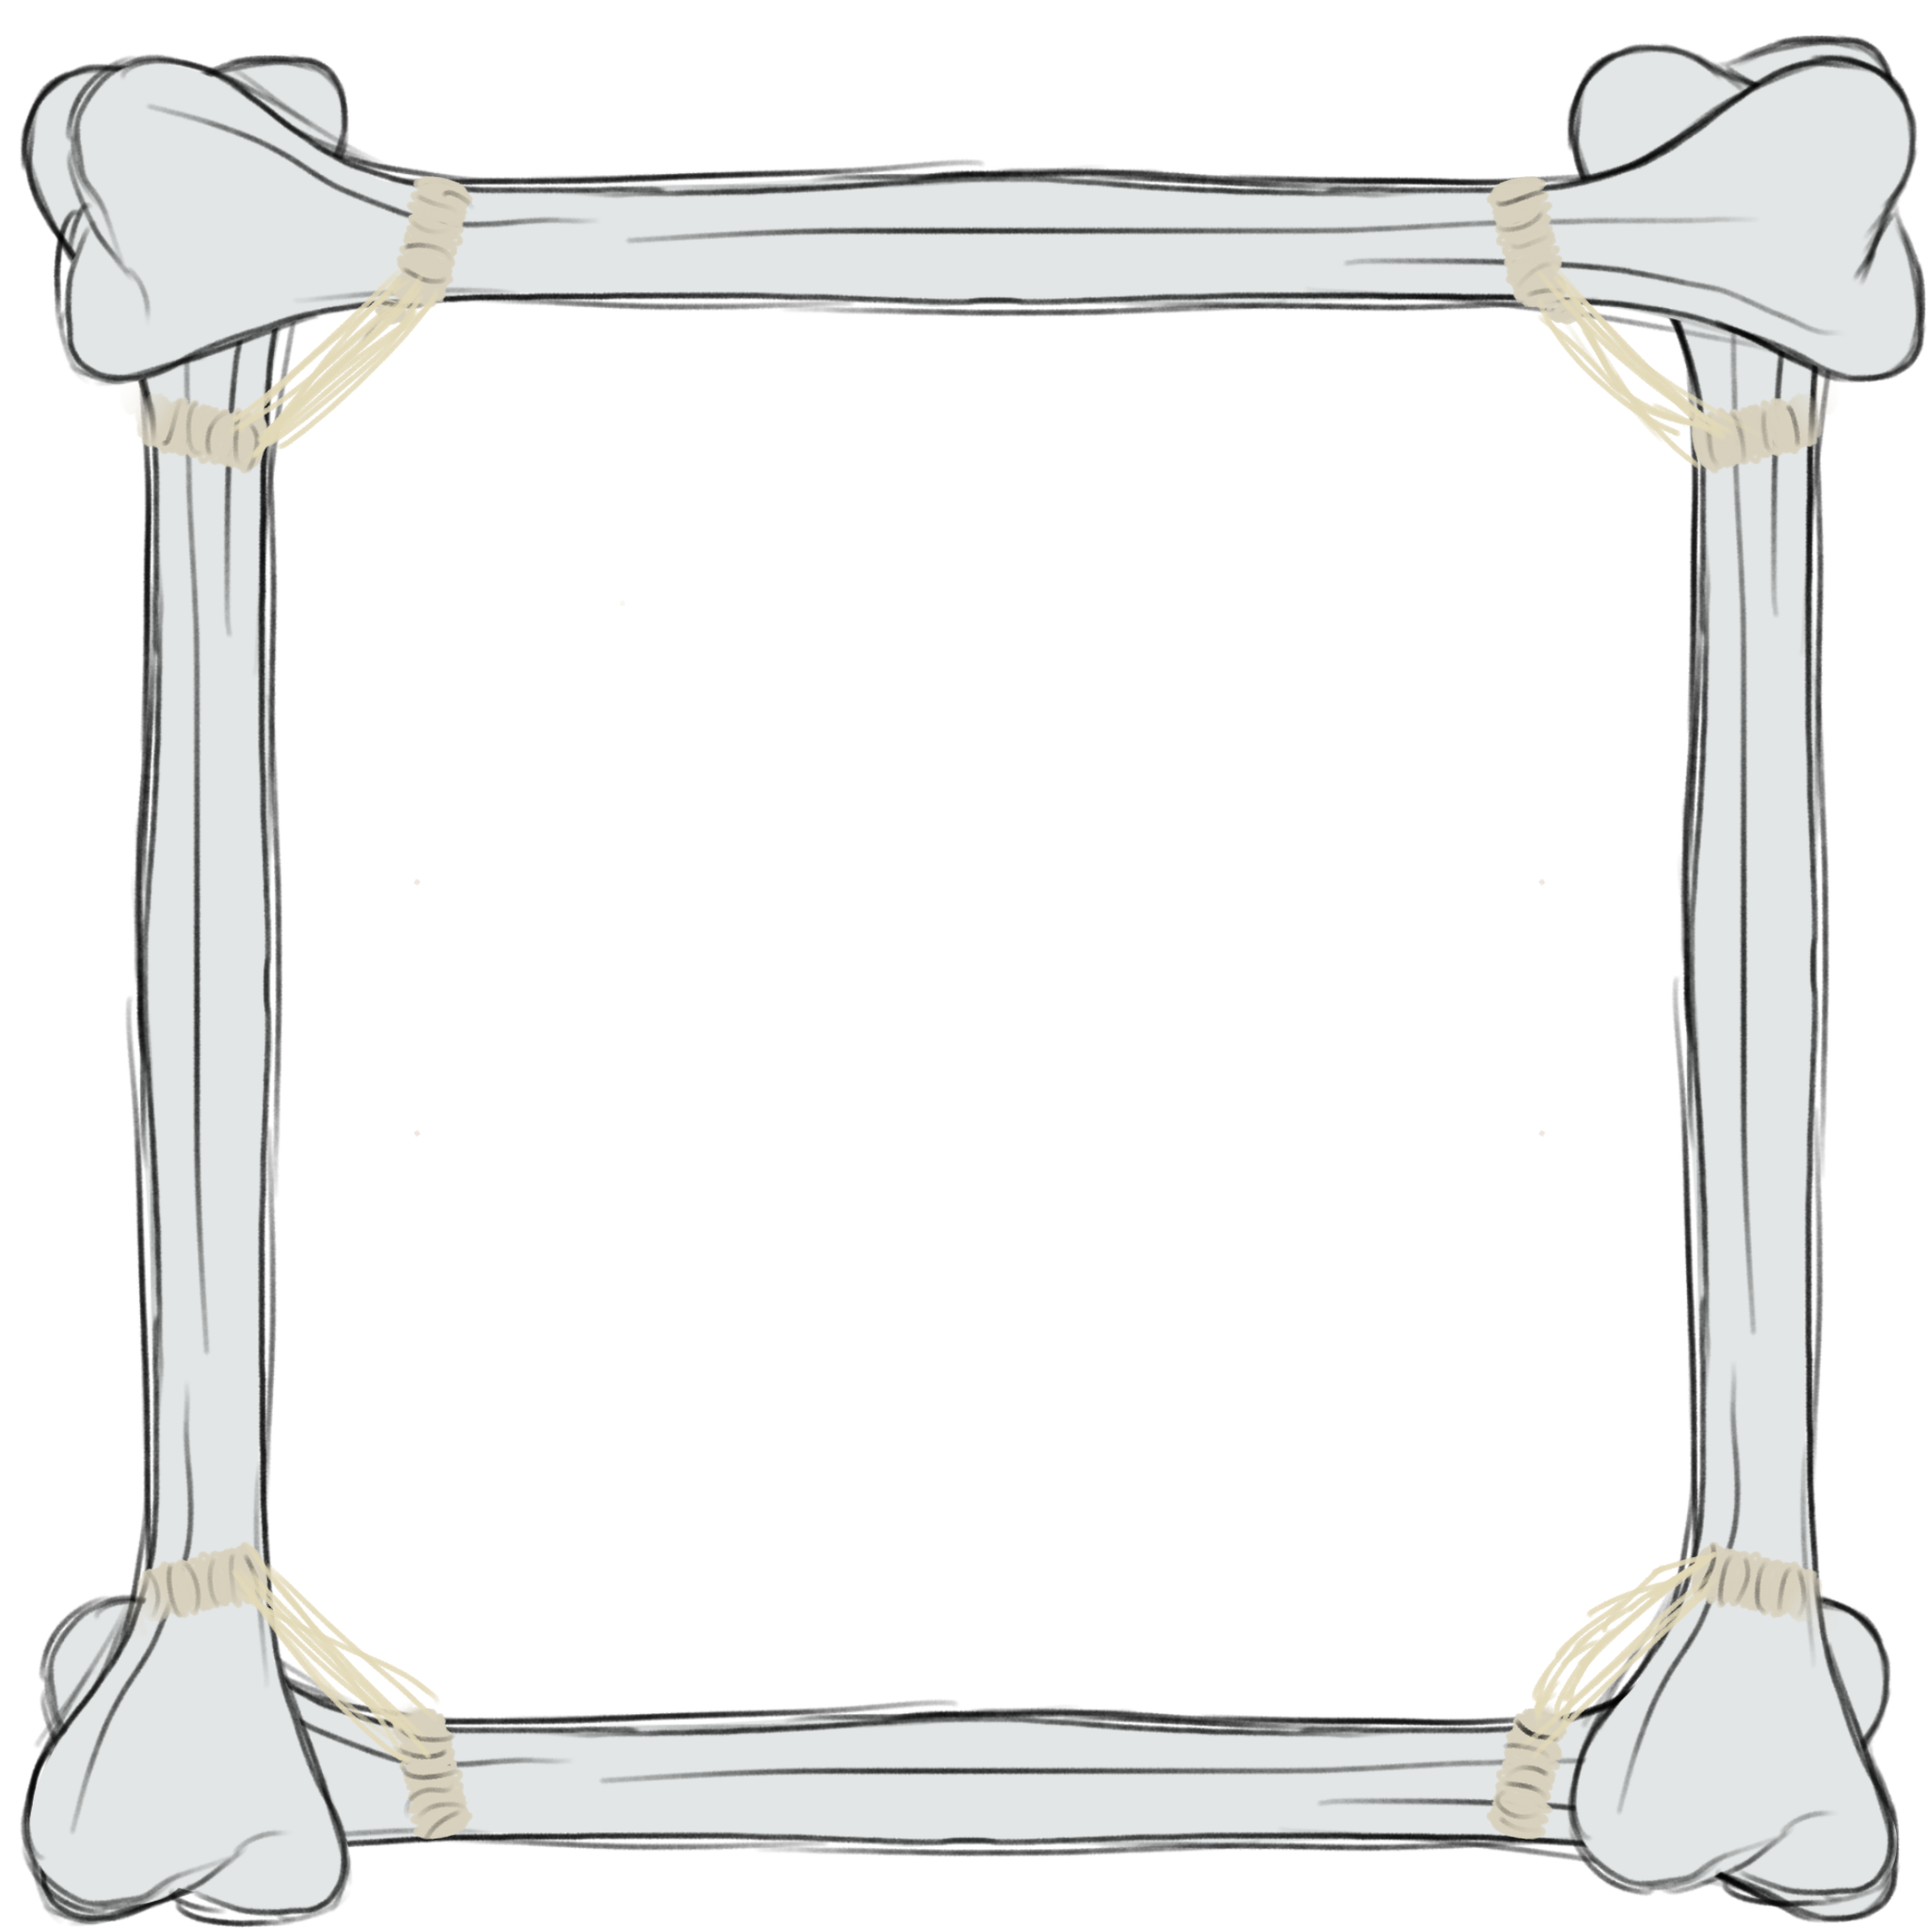
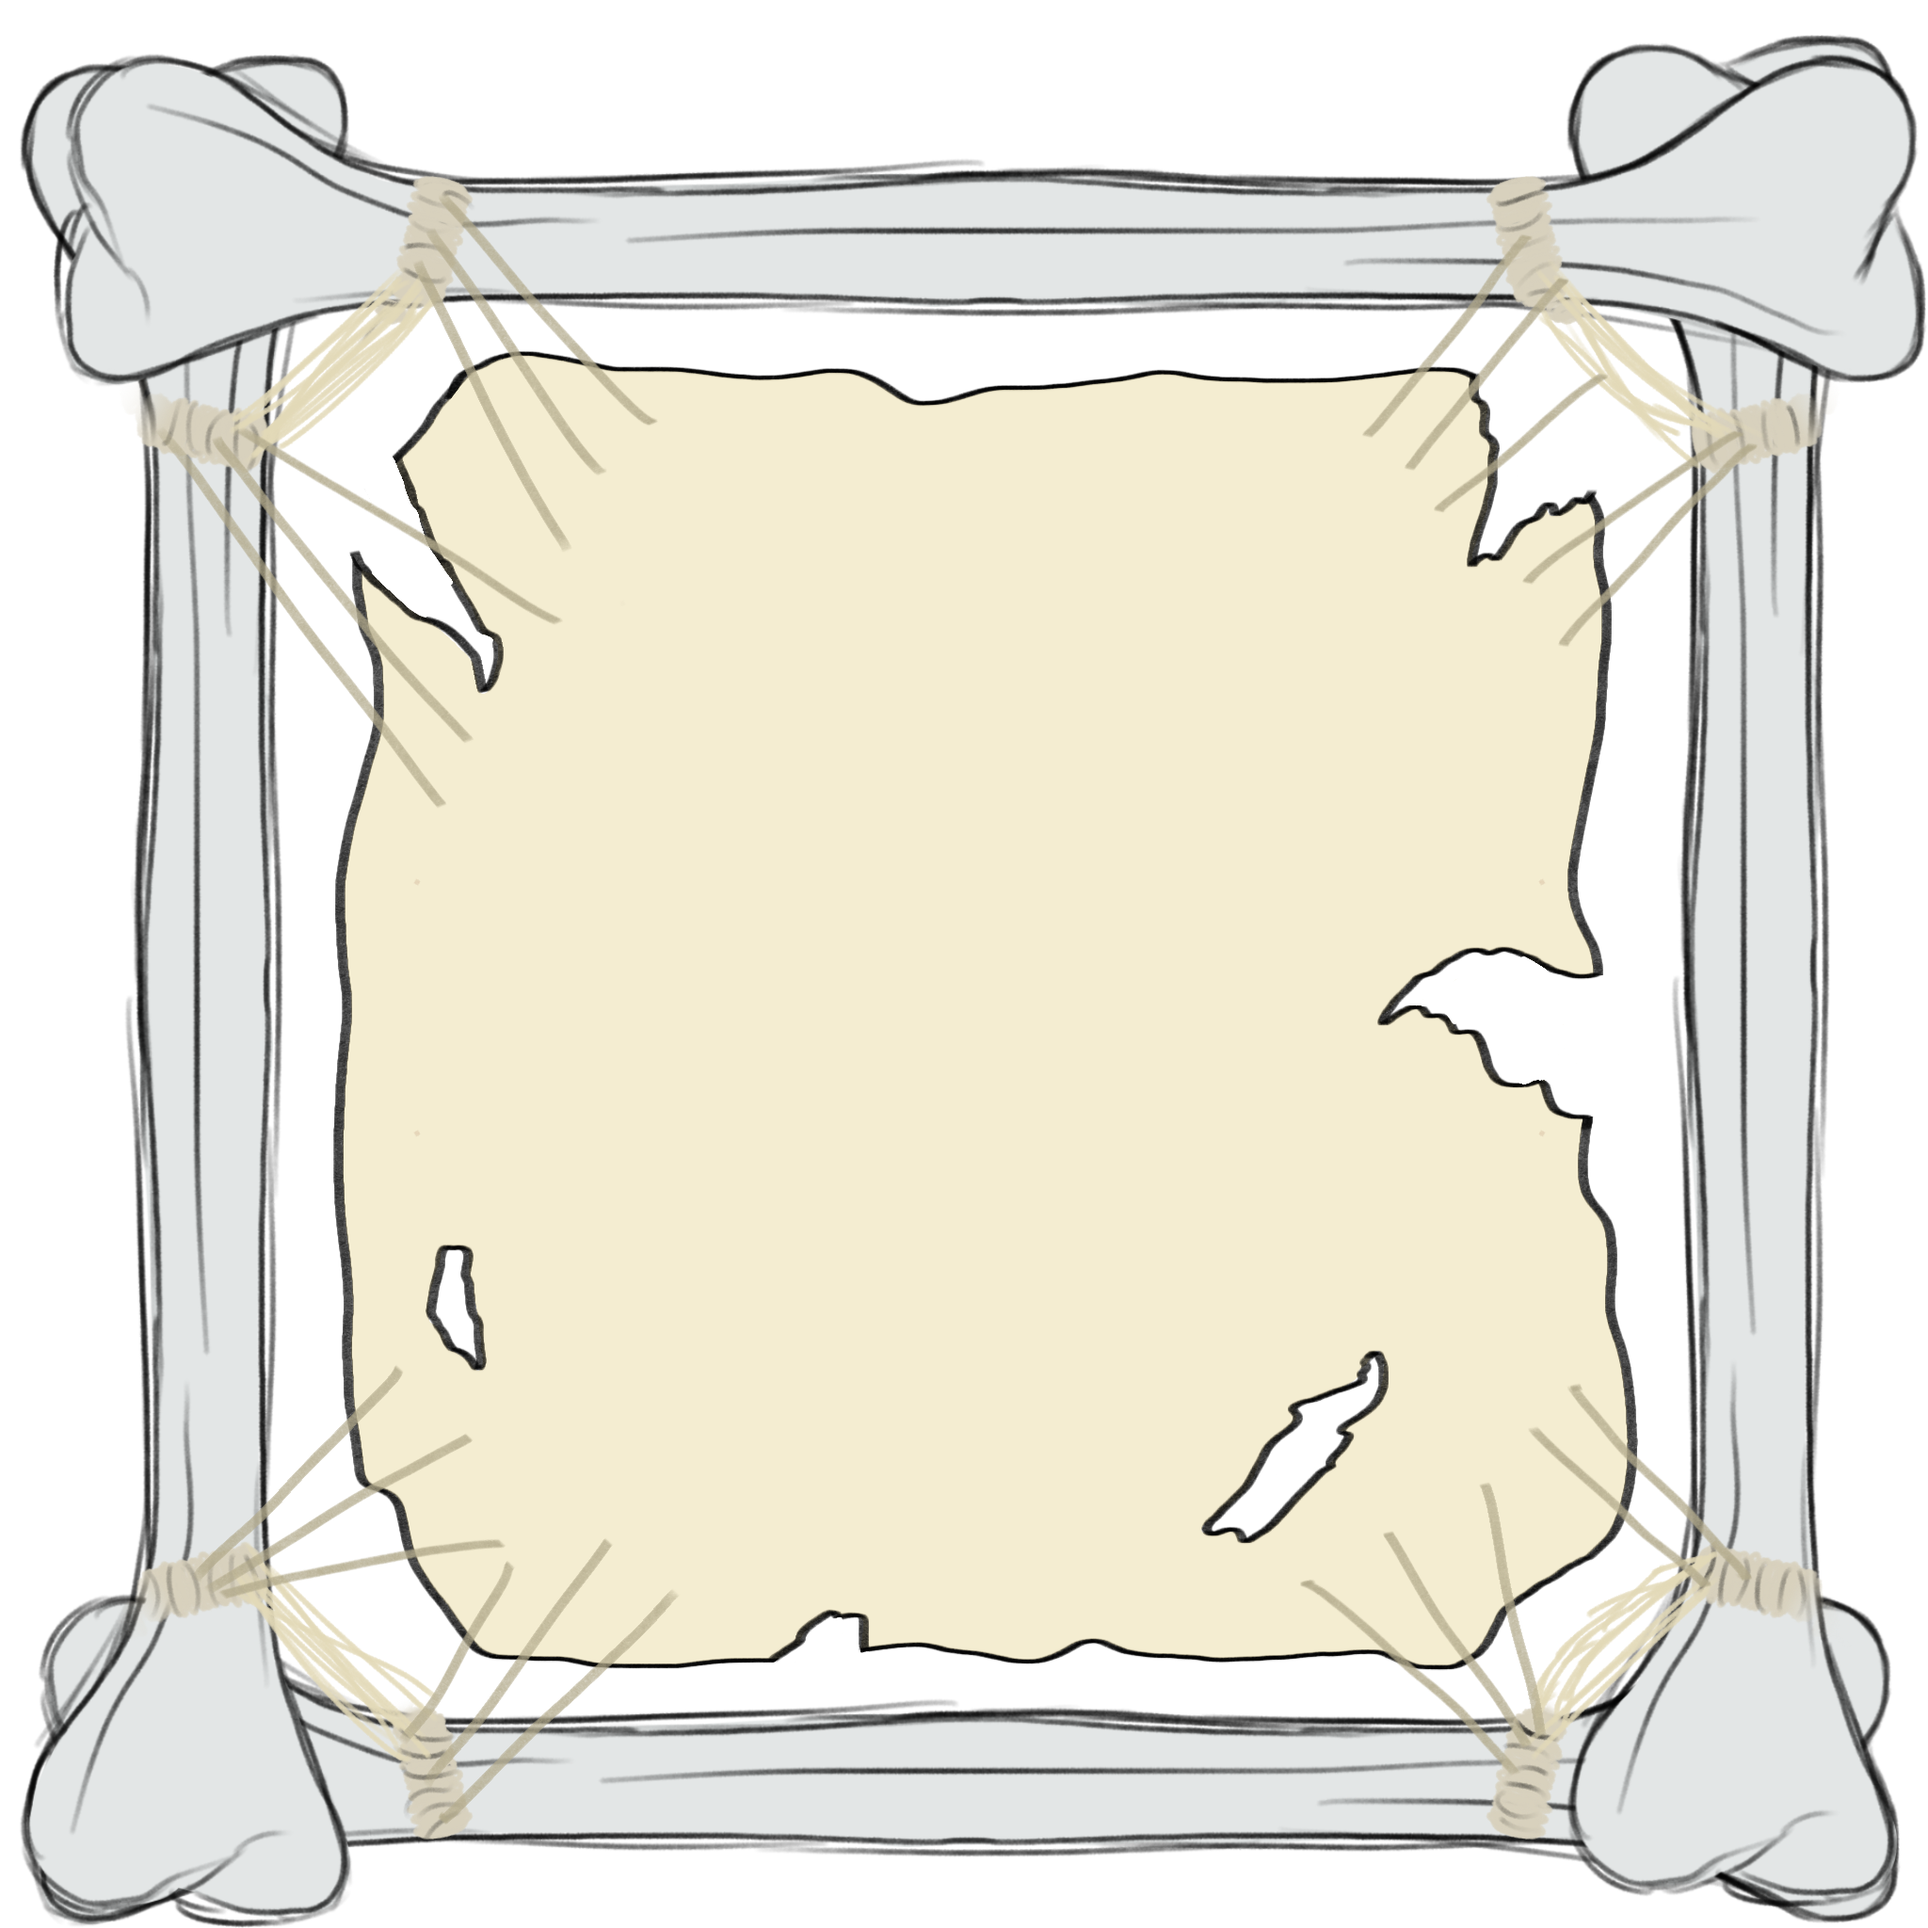
new art no bounce on arrows

diff --git a/Assets/Goblin/GameplayUI.cs b/Assets/Goblin/GameplayUI.cs
@@ -21,7 +21,7 @@ public class GameplayUI : MonoBehaviour
 	public void Init(Key key)
 	{
 		_control = Keyboard.current[key];
-		_animator.Play(_bounce);
+		//_animator.Play(_bounce);
 	}
 
 	public void OnValidPress()
